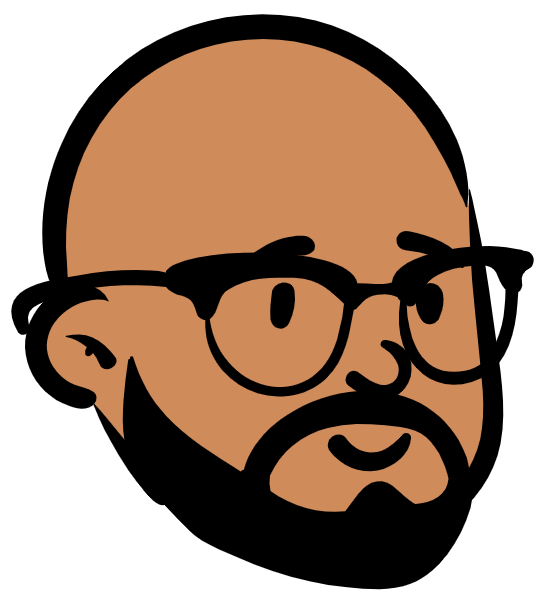
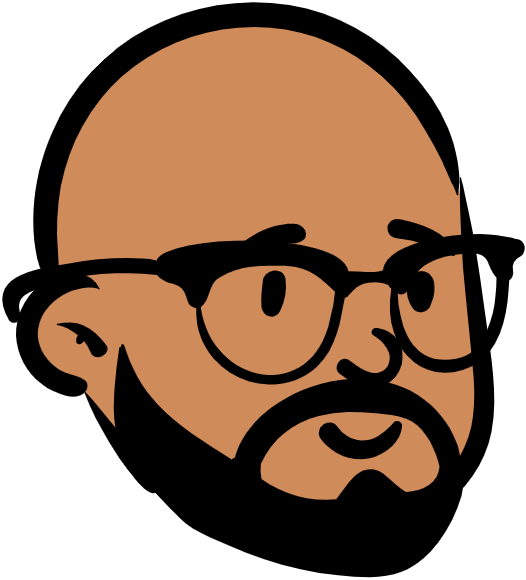
remove spacing in hero section, add more width classes to image

diff --git a/src/app/hero/page.tsx b/src/app/hero/page.tsx
@@ -3,7 +3,7 @@ import Image from "next/image";
 
 const Hero = () => {
   return (
-    <section className="flex flex-col sm:flex-row items-center justify-center w-full mx-auto max-w-screen-xl space-x-4 sm:space-x-8 lg:space-x-16 xl:space-x-24 2xl:space-x-64">
+<section className="flex flex-col sm:flex-row items-center justify-center w-full mx-auto max-w-screen-xl">
       <div className="text-left">
         <h1 className="text-3xl xs:text-4xl sm:text-5xl lg:text-6xl xl:text-7xl 2xl:text-8xl font-bold text-balance">Hello, I&apos;m <span className="text-blue-500">Daniel</span></h1>
         <p className="text-xl xs:text-2xl sm:text-3xl lg:text-4xl xl:text-5xl 2xl:text-6xl font-bold text-balance">I&apos;m a <span className="text-blue-500">full-stack developer</span></p>
@@ -16,8 +16,9 @@ const Hero = () => {
   alt="Hero" 
   width={170} 
   height={177} 
-  className="transition-all duration-500 ease-in-out transform xl:w-96 2xl:w-128" 
-/>      </div>
+
+
+  className="transition-all duration-500 ease-in-out transform w-64 md:w-72 lg:w-80 xl:w-96 2xl:w-128"/>      </div>
     </section>
   );
 };
